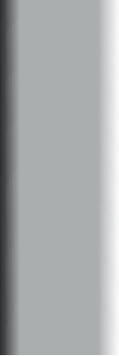
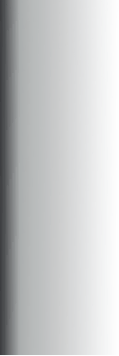
images

diff --git a/panelBaseBuilder.js b/panelBaseBuilder.js
@@ -55,7 +55,7 @@ export async function drawGrooves(ctx, width, height, textureDef) {
 
     const grooveMarginX = marginX * 0.4;
     const grooveDrawW   = width - grooveMarginX * 2;  // span full inner width
-    const grooveThick   = nW * (innerH / nH) * 0.025;  // same reference as vertical for consistent weight
+    const grooveThick   = nW * (innerH / nH) * 0.018;  // same reference as vertical for consistent weight
 
     // Centre the fixed-pitch group within the inner height
     const totalSpan    = (count - 1) * grooveSpacing;

diff --git a/canvasBuilder.js b/canvasBuilder.js
@@ -143,7 +143,7 @@ async function applyFinishToElementGroup({
  */
 function drawFrameEdgeLighting(ctx, w, h, frameTop = 35, frameBottom = 17, frameSide = 35) {
   const reach       = 10;   // px — how far shadows/highlights bleed into the panel
-  const hiAlpha     = 0.28; // highlight intensity
+  const hiAlpha     = 0.06; // highlight intensity
   const shAlpha     = 0.22; // primary shadow intensity
   const shAlphaSub  = 0.09; // secondary (counter-side) shadow intensity
 
